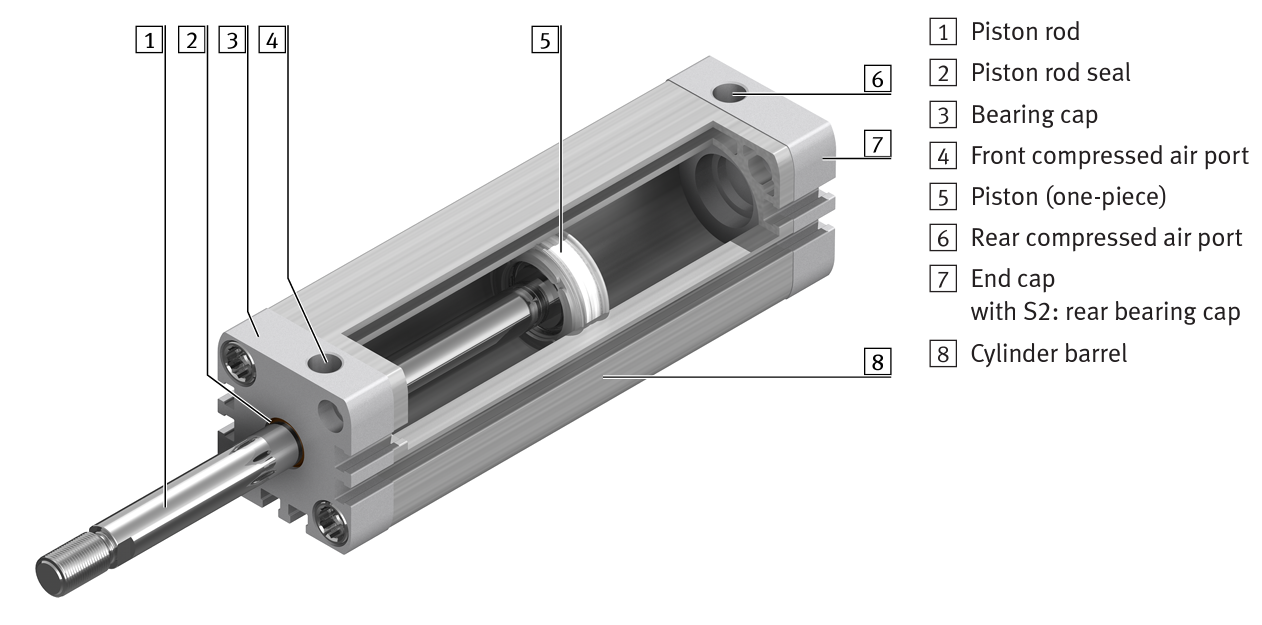
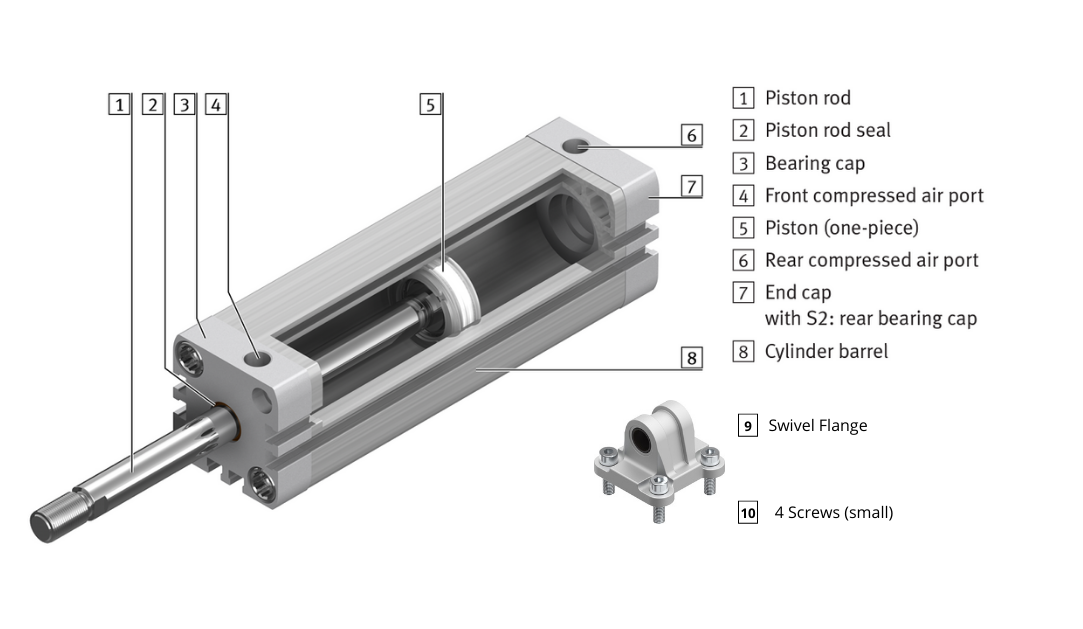
30.07.2024
V1

diff --git a/AssemblyPage.py b/AssemblyPage.py
@@ -16,8 +16,8 @@ def assembly_page():
     tab_bar_data = [
         stx.TabBarItemData(id=1, title="Standard cylinder", description=" "),
         stx.TabBarItemData(id=2, title="Push-in cylinder", description=" "),
-        stx.TabBarItemData(id=3, title="L-Fit cylinder", description=" "),
-        stx.TabBarItemData(id=4, title="Dual-Fit cylinder", description=" ")]
+        stx.TabBarItemData(id=3, title="L-fit cylinder", description=" "),
+        stx.TabBarItemData(id=4, title="Dual-fit cylinder", description=" ")]
 
     chosen_id = stx.tab_bar(data=tab_bar_data, default=1)
 

diff --git a/LogisticsFunctions.py b/LogisticsFunctions.py
@@ -296,7 +296,7 @@ def display_images(game_phase):
     images = [
         'barrel.png', 'bearing_cap.png', 'push_L_fitting.png',
         'piston.png', 'end_cap.png', 'push_in_fitting.png',
-        'screw.png', 'nut.png', 'protection.png']
+        'screw.png', 'nut.png', 'swivel_flange.png']
 
     columns = st.columns(3, gap='medium')
 
